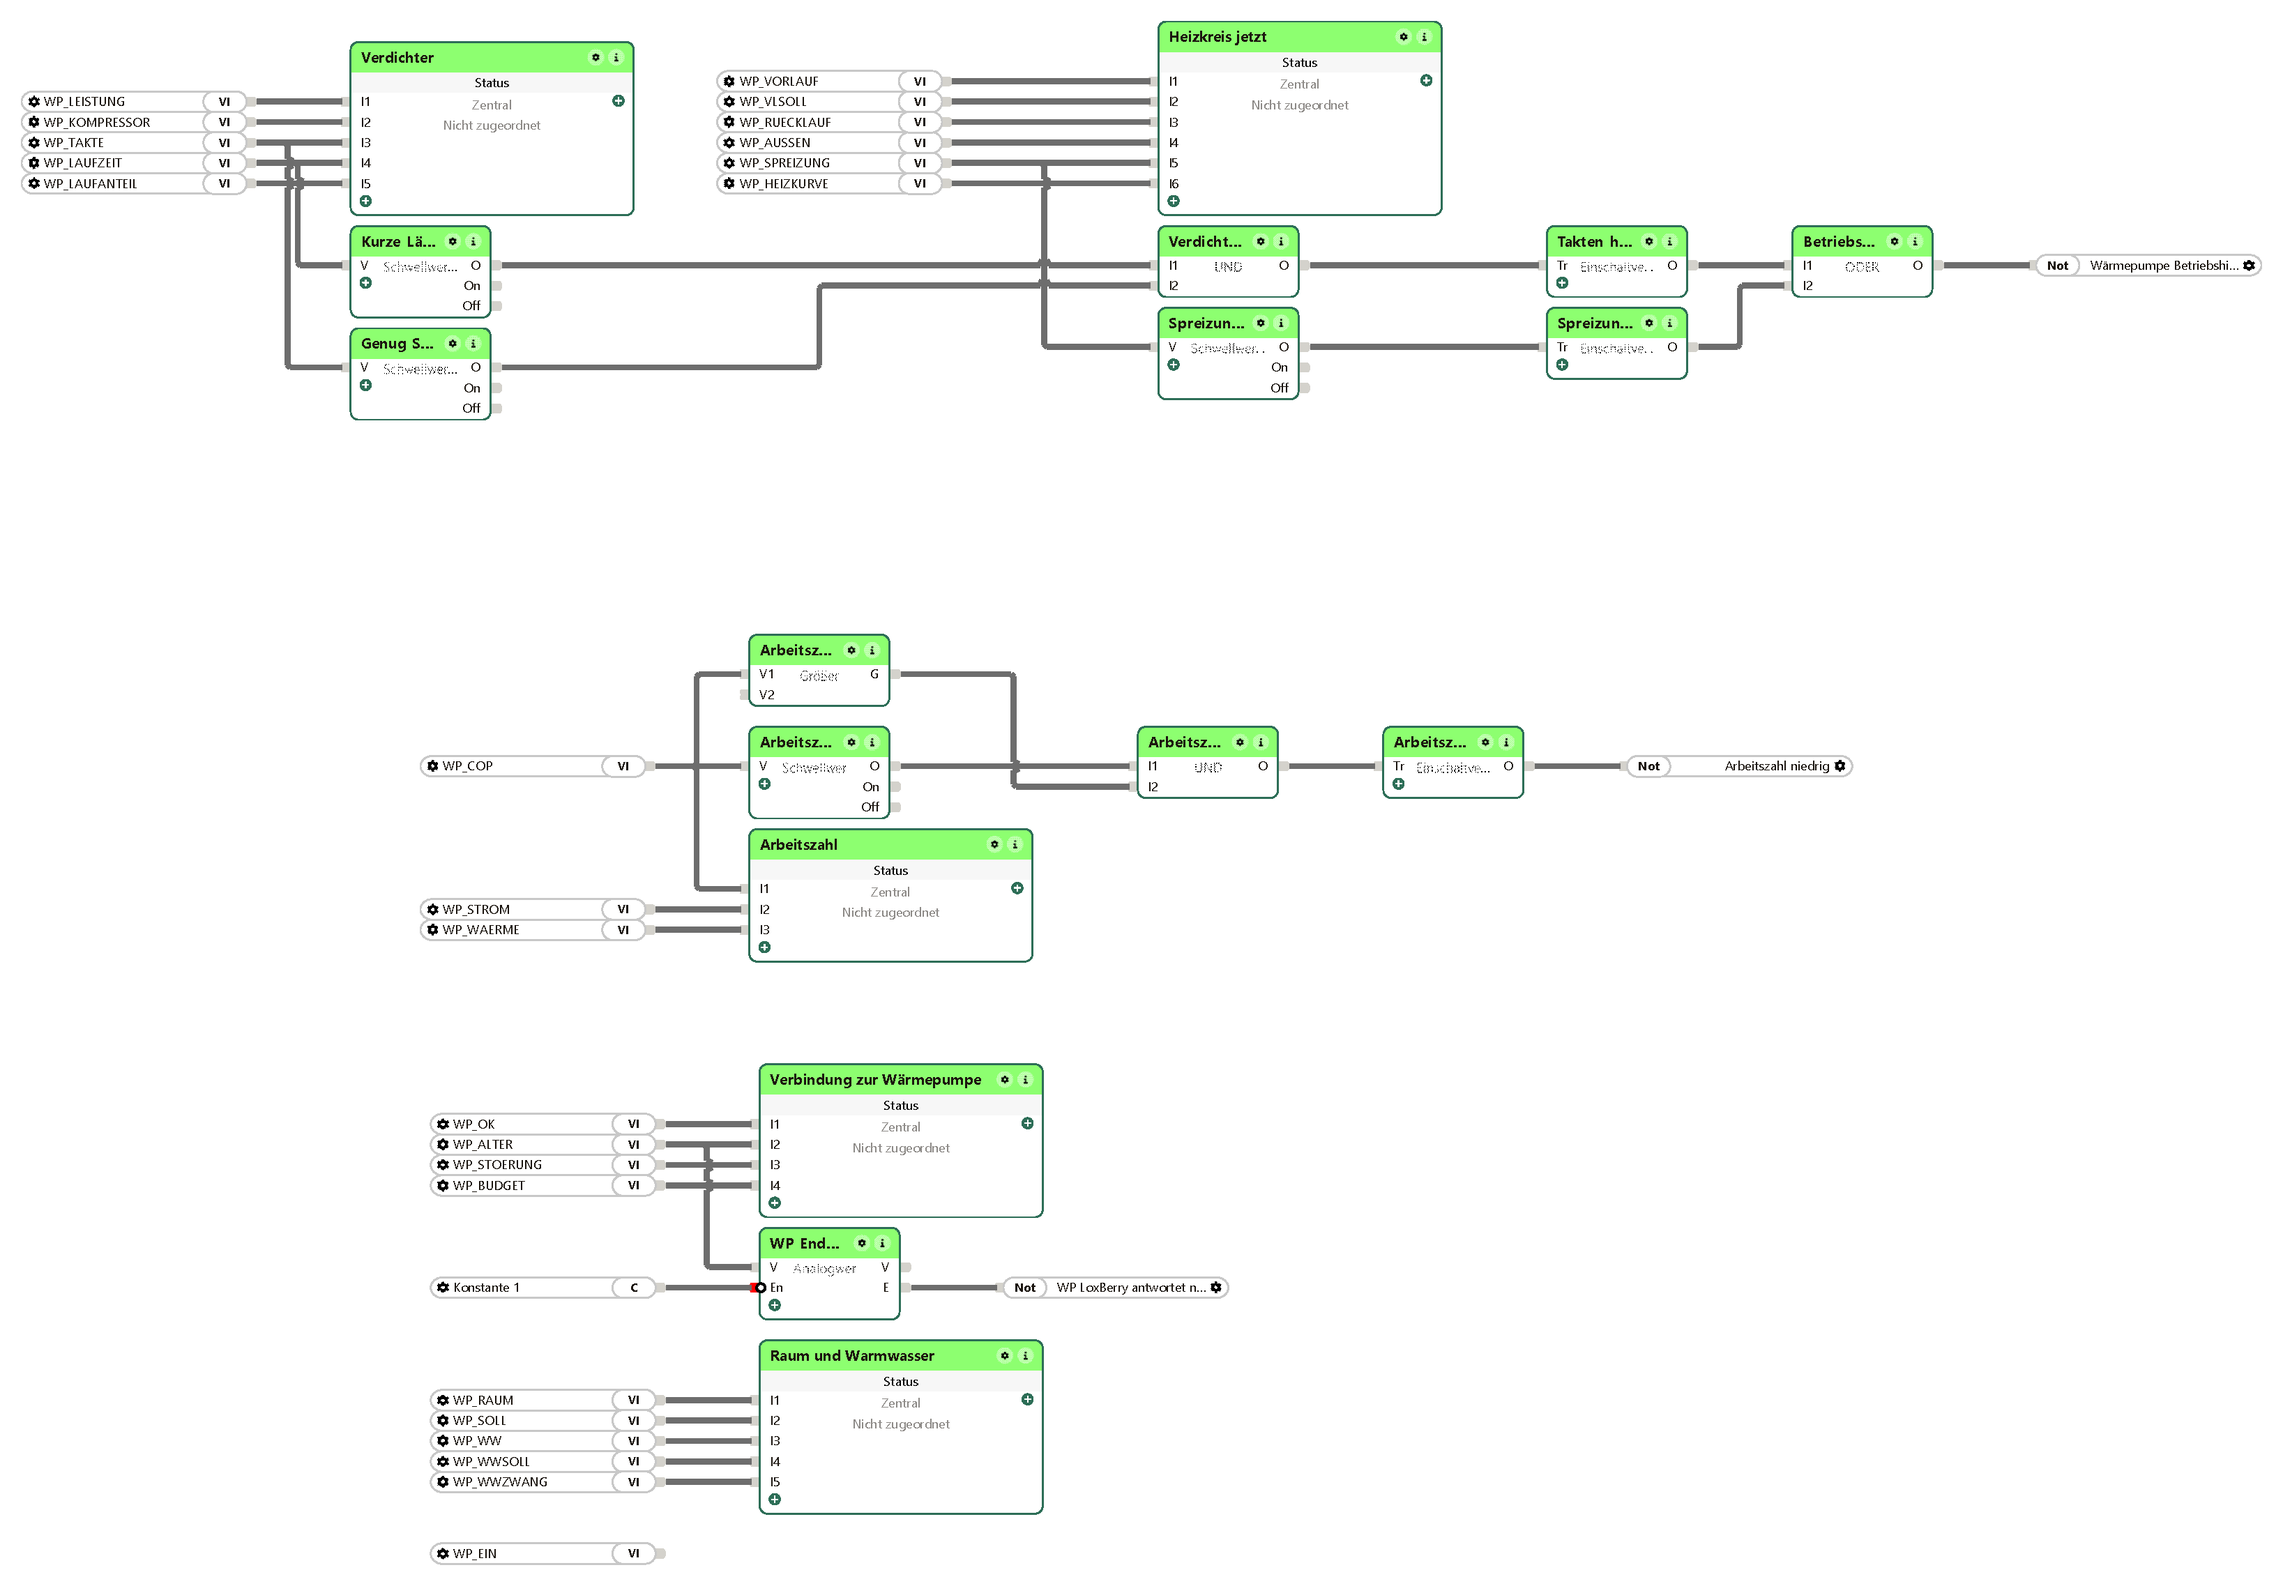
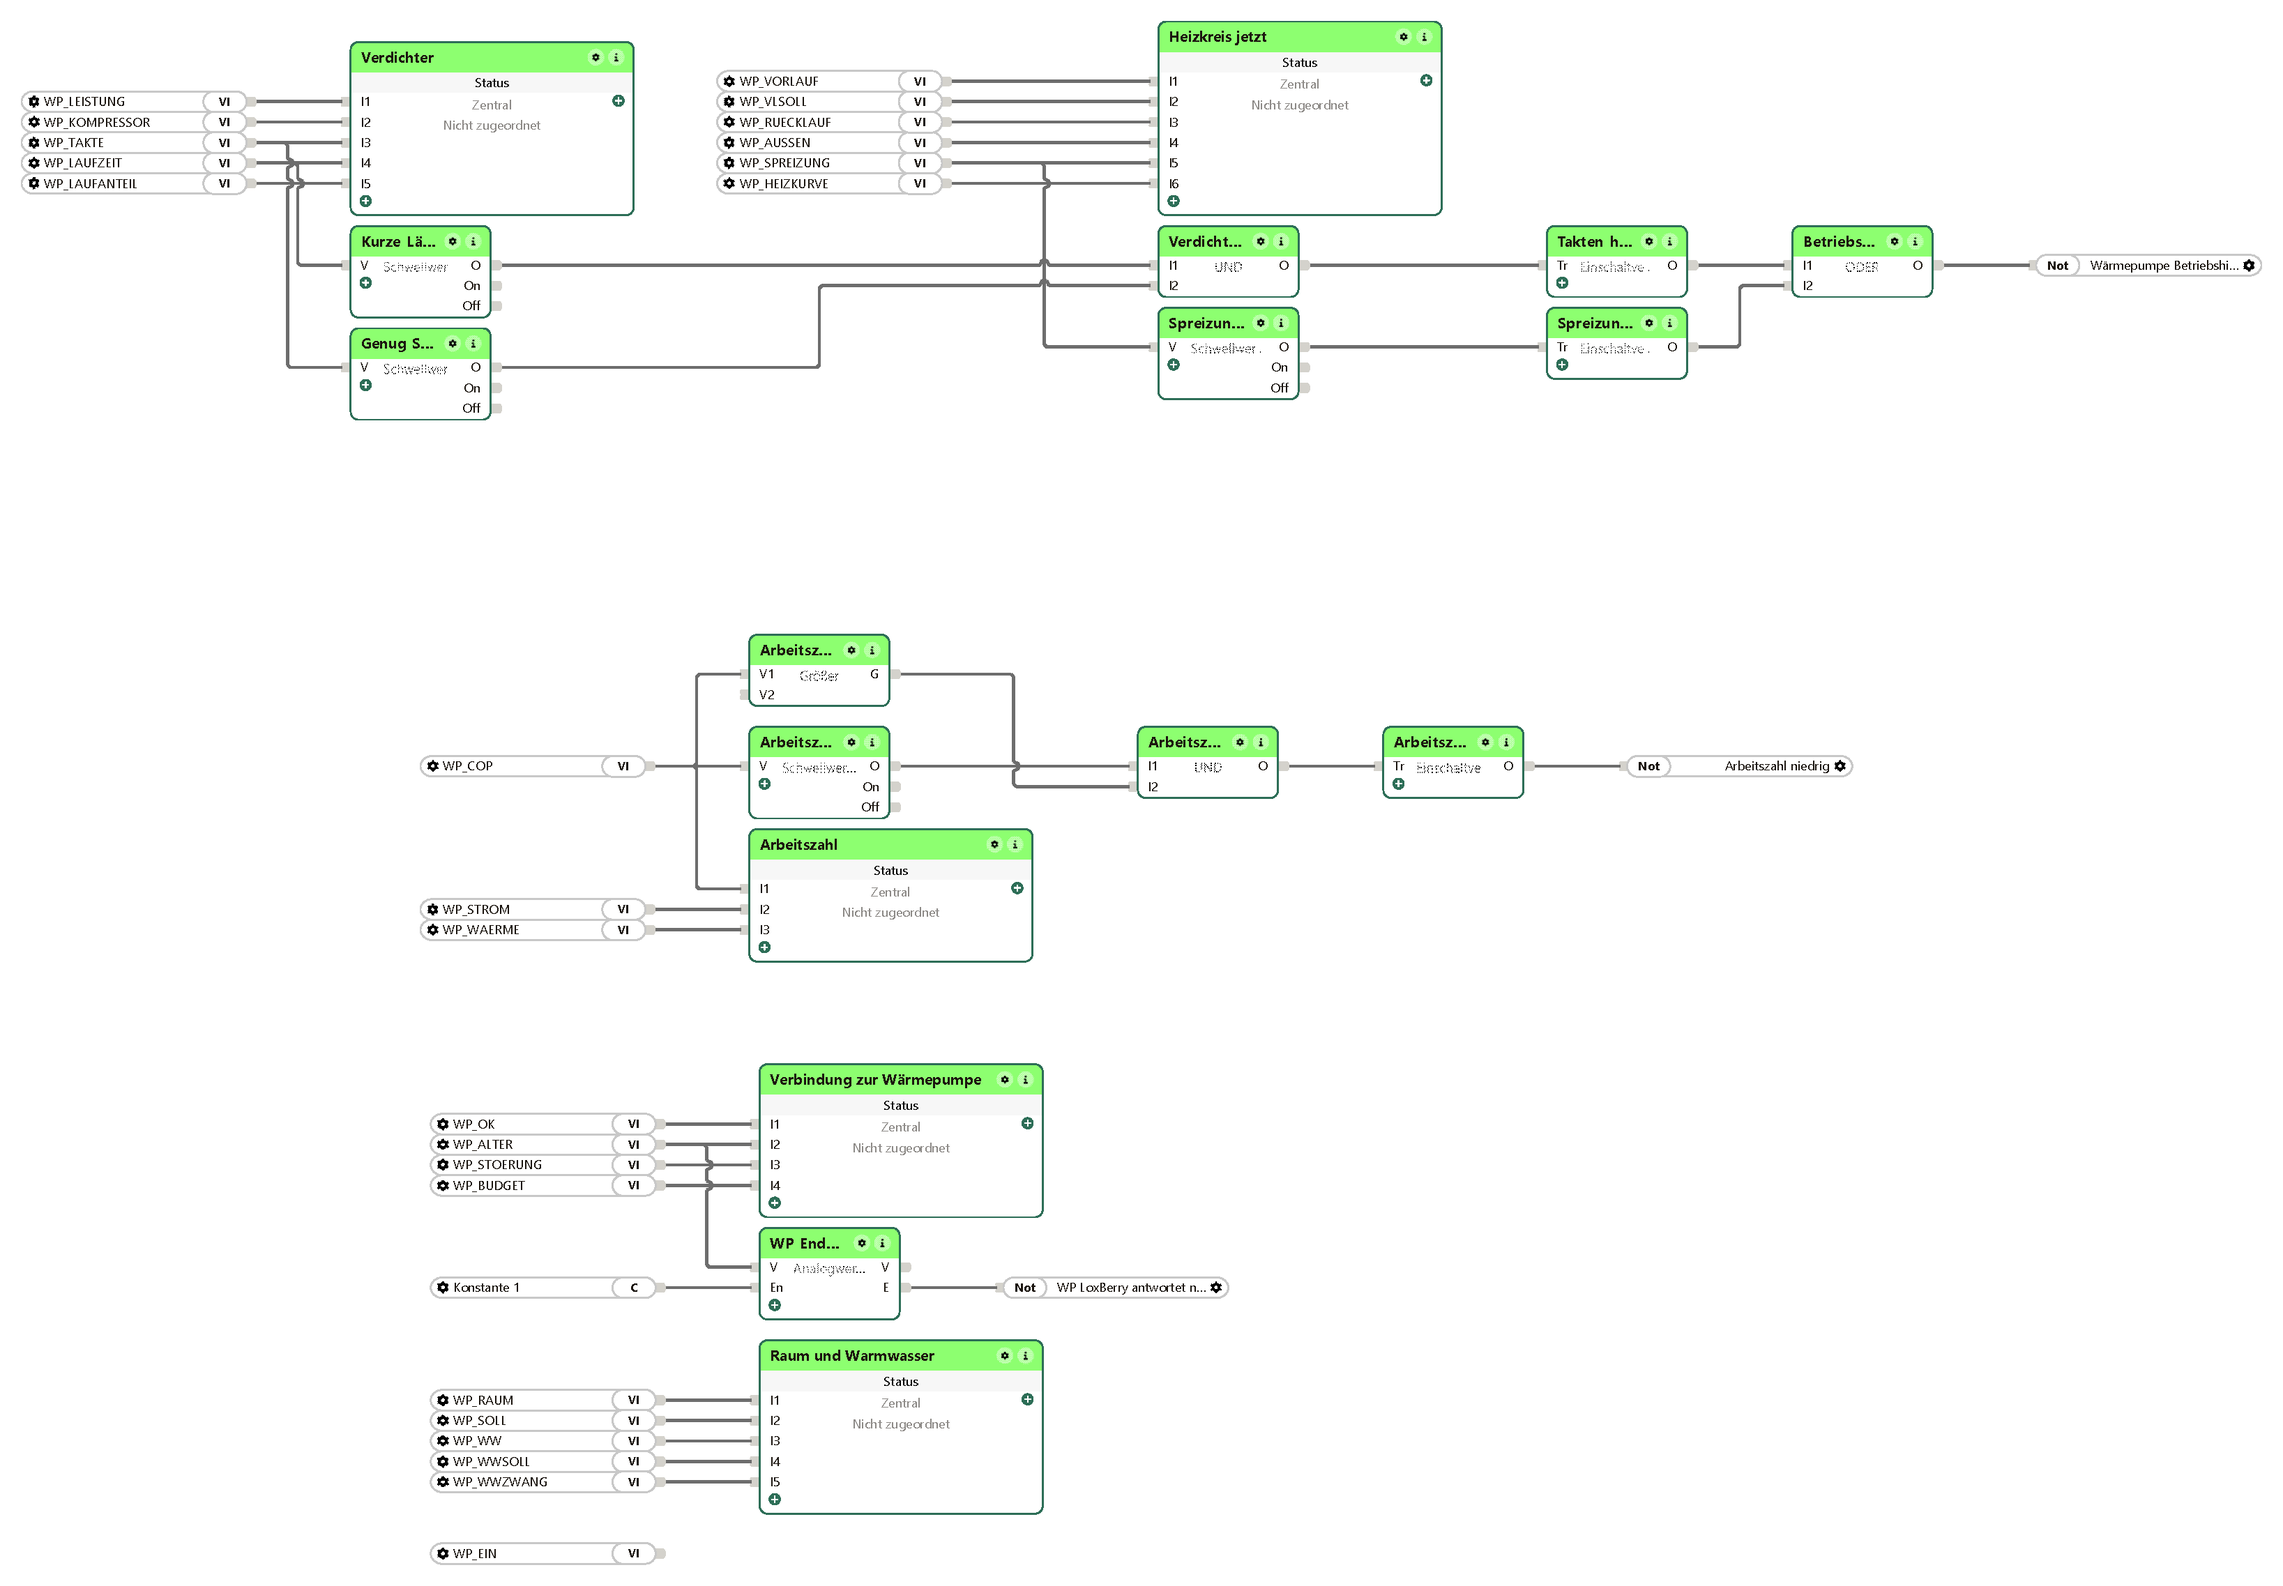
WaermepumpeCloud 0.9.32: Einbindung: Eingang En der Analogwertvalidierung nicht negieren (Hinweis, Bild)
Einbindung in Loxone: Eingang En der Analogwertvalidierung nicht negieren (Hinweis und Bild); ohne diese
Korrektur löste die Ausfallmeldung nie aus. Wer die Seite schon gebaut hat: Haken bei ‚En‘ entfernen.

diff --git a/webfrontend/htmlauth/index.php b/webfrontend/htmlauth/index.php
@@ -2128,6 +2128,7 @@ $wp_bs_seiten = array(
             wp_e(sprintf(wp_t('BAUSTEIN.S2_H1'), wp_t('REITER.TEST'), wp_t('TEST.K_WEGE'))),
             wp_e(wp_t('BAUSTEIN.S2_H2')),
             wp_e(wp_t('BAUSTEIN.S2_H3')),
+            wp_e(wp_t('BAUSTEIN.S2_H3_EN')),
             wp_e(wp_t('BAUSTEIN.S2_H4')),
         )),
 );

diff --git a/README.md b/README.md
@@ -62,6 +62,11 @@ Adresse und Vorlage müssen im Heimnetz liegen; die Sprechtoken stehen in keiner
 Prüfzeile im Reiter Test; dort zeigt die Prüfadresse das Aktionstoken nur noch maskiert (Knopf „Adresse
 kopieren“).
 
+## Neu in 0.9.32
+
+Einbindung in Loxone: Eingang En der Analogwertvalidierung nicht negieren (Hinweis und Bild); ohne diese
+Korrektur löste die Ausfallmeldung nie aus. Wer die Seite schon gebaut hat: Haken bei ‚En‘ entfernen.
+
 ## Neu in 0.9.31
 
 Vollausstattung aus dem [LoxBerry-Plugins Musterprojekt](https://github.com/timanders22/LoxBerry-Plugins-Musterprojekt): Der Reiter „Einbindung in
